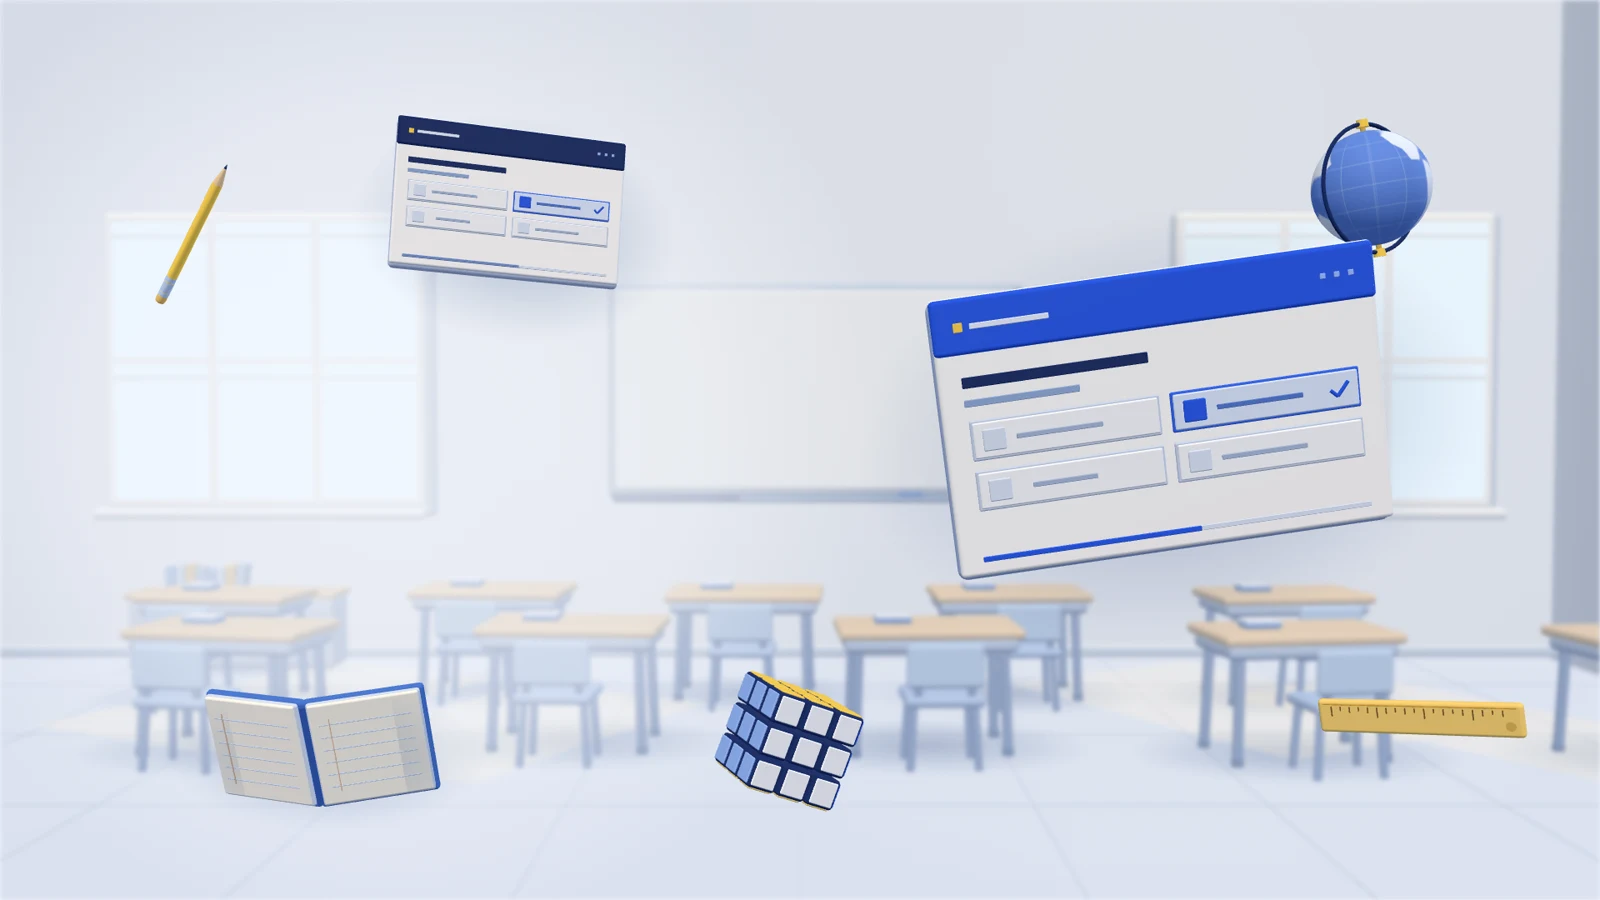
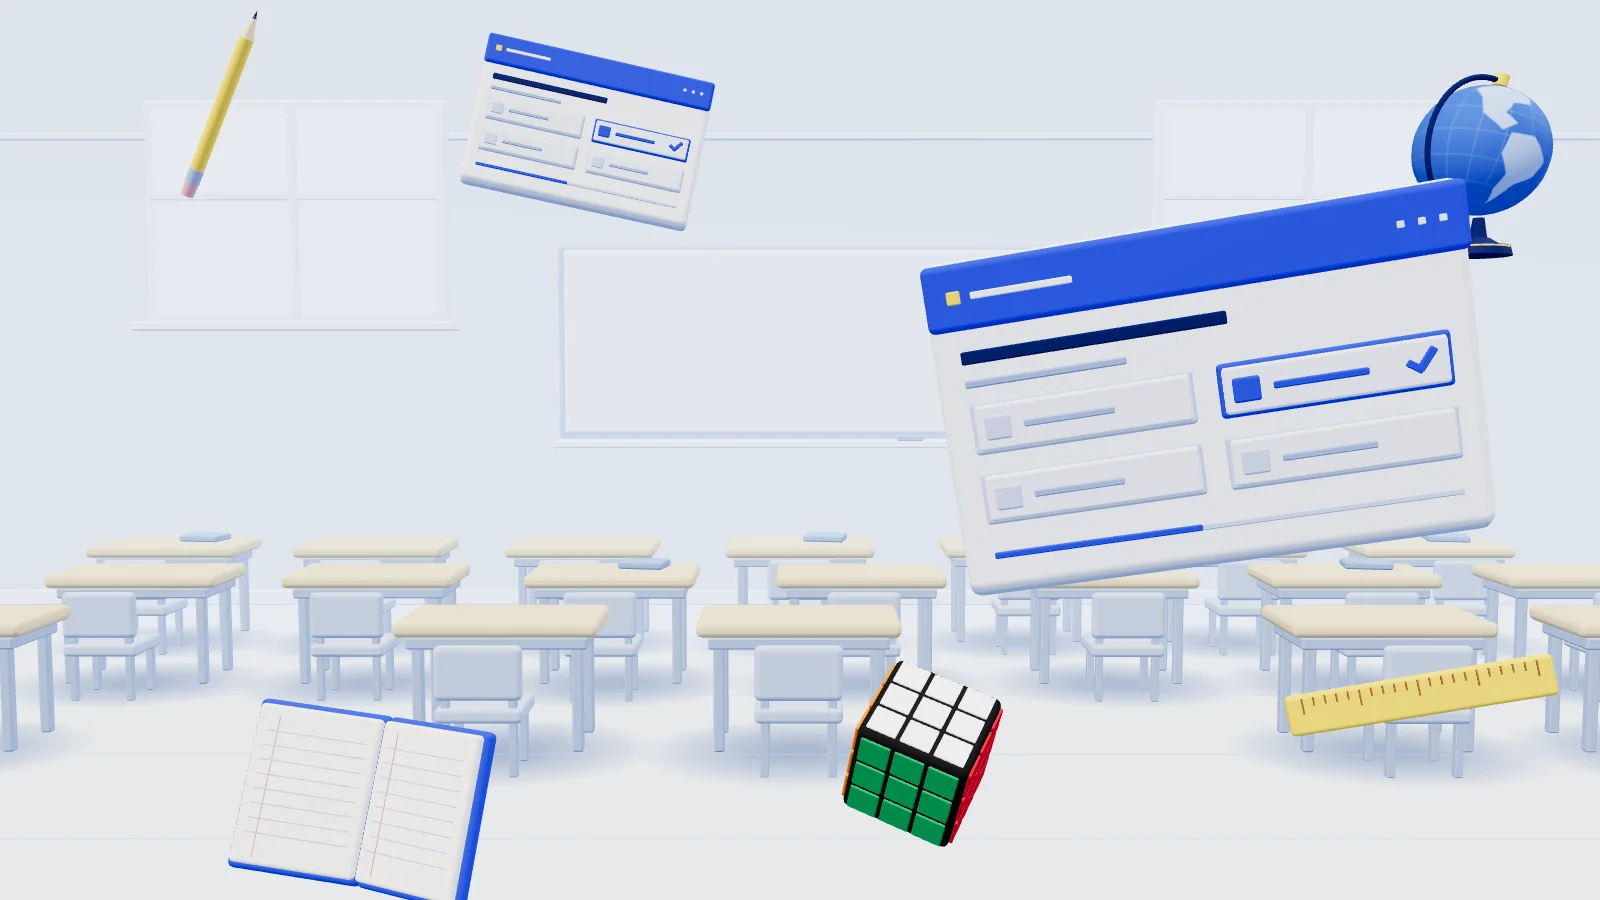
Refine classroom hero motion and models

diff --git a/src/components/hero-classroom-scene.ts b/src/components/hero-classroom-scene.ts
@@ -1,6 +1,6 @@
 import * as THREE from "three";
 import { addClassroom, disposeClassroom, makeClassroomObjects } from "./hero-classroom-models";
-import { pointerImpulse } from "./hero-pointer-motion";
+import { classroomPose, pointerImpulse } from "./hero-pointer-motion";
 
 type ClassroomOptions = {
   canvas: HTMLCanvasElement;
@@ -20,17 +20,18 @@ export function mountClassroom({ canvas, hero, onQuiz, onFailure }: ClassroomOpt
   const scene = new THREE.Scene();
   scene.fog = new THREE.Fog(0xeaf1fc, 12, 25);
   const camera = new THREE.PerspectiveCamera(35, 1, 0.1, 45);
-  const neutralCamera = camera.clone();
-  neutralCamera.position.copy(homeCamera);
-  neutralCamera.lookAt(cameraFocus);
-  neutralCamera.updateMatrixWorld();
+  camera.position.copy(homeCamera);
+  camera.lookAt(cameraFocus);
+  camera.updateMatrixWorld();
+  const roomView = camera.clone();
 
   const daylight = new THREE.DirectionalLight(0xfff5e3, 2.35);
   daylight.position.set(-4, 8, 5);
   const fill = new THREE.DirectionalLight(0xdce9ff, 1.15);
   fill.position.set(6, 4, -2);
   scene.add(new THREE.HemisphereLight(0xf5f9ff, 0xa1b5dd, 2.25), daylight, fill);
-  addClassroom(scene);
+  const room = addClassroom(scene);
+  room.matrixAutoUpdate = false;
 
   const models = makeClassroomObjects();
   const hitMaterial = new THREE.MeshBasicMaterial({ visible: false });
@@ -38,9 +39,9 @@ export function mountClassroom({ canvas, hero, onQuiz, onFailure }: ClassroomOpt
     { model: models.pencil, action: "move", x: 0.14, y: 0.14, z: 3.4, scale: 0.55, tilt: [0.10, -0.08, -0.52], drift: 0.12, phase: 1.2 },
     { model: models.extraQuiz, action: "quiz", x: 0.373, y: 0.15, z: 2.3, scale: 0.54, tilt: [-0.13, 0.23, -0.14], drift: 0.10, phase: 2.8 },
     { model: models.quiz, action: "quiz", x: 0.738, y: 0.46, z: 4.3, scale: 0.99, tilt: [0.04, -0.24, 0.10], drift: 0.20, phase: 0.2 },
-    { model: models.globe.model, action: "rotate", x: 0.89, y: 0.145, z: 3.3, scale: 0.83, tilt: [0.06, 0.12, -0.27], drift: 0.13, phase: 4.8 },
+    { model: models.globe.model, action: "rotate", x: 0.925, y: 0.15, z: 3.3, scale: 0.71, tilt: [0.06, 0.12, -0.27], drift: 0.10, phase: 4.8 },
     { model: models.notebook, action: "rotate", x: 0.238, y: 0.87, z: 3.9, scale: 0.73, tilt: [-0.24, -0.22, -0.08], drift: 0.17, phase: 3.8 },
-    { model: models.cube, action: "rotate", x: 0.57, y: 0.83, z: 3.0, scale: 0.76, tilt: [0.34, -0.37, -0.22], drift: 0.11, phase: 5.7 },
+    { model: models.cube, action: "rotate", x: 0.57, y: 0.83, z: 3.0, scale: 0.76, tilt: [0.55, -0.55, -0.18], drift: 0.11, phase: 5.7 },
     { model: models.ruler, action: "move", x: 0.89, y: 0.79, z: 3.4, scale: 0.78, tilt: [-0.13, -0.11, 0.21], drift: 0.13, phase: 1.9 },
   ] as const;
   const objects = placements.map((placement) => {
@@ -73,8 +74,9 @@ export function mountClassroom({ canvas, hero, onQuiz, onFailure }: ClassroomOpt
   let running = false;
   let lost = false;
   let lastFrame = 0;
+  let roomTime = 0;
 
-  function trackCamera(event: PointerEvent) {
+  function trackRoomPointer(event: PointerEvent) {
     if (!running || gesture || event.pointerType !== "mouse" || event.buttons !== 0) return;
     if (event.target instanceof Element && event.target.closest("button, a, dialog")) {
       lastPointer = undefined;
@@ -87,19 +89,22 @@ export function mountClassroom({ canvas, hero, onQuiz, onFailure }: ClassroomOpt
   }
 
   function draw(now: number) {
-    const delta = lastFrame && running ? Math.min(0.05, (now - lastFrame) / 1000) : 0;
+    const elapsed = lastFrame && running ? (now - lastFrame) / 1000 : 0;
+    const delta = Math.min(0.05, elapsed);
     lastFrame = now;
+    roomTime += elapsed;
     if (!lastPointer || now - lastPointer.at > 55) velocity.multiplyScalar(Math.exp(-delta * 8));
-    if (!gesture) {
-      orbit.x = THREE.MathUtils.damp(orbit.x, velocity.x, 12, delta);
-      orbit.y = THREE.MathUtils.damp(orbit.y, velocity.y, 12, delta);
-    }
-    camera.position.set(homeCamera.x + orbit.x * 0.70, homeCamera.y - orbit.y * 0.40, homeCamera.z);
-    aim.copy(cameraFocus);
-    aim.x += orbit.x * 0.16;
-    aim.y -= orbit.y * 0.10;
-    camera.lookAt(aim);
-    camera.rotateZ(-orbit.x * 0.023);
+    orbit.x = THREE.MathUtils.damp(orbit.x, velocity.x, 12, delta);
+    orbit.y = THREE.MathUtils.damp(orbit.y, velocity.y, 12, delta);
+    const pose = classroomPose(roomTime, orbit);
+    roomView.position.set(homeCamera.x + pose.x, homeCamera.y + pose.y, homeCamera.z + pose.z);
+    aim.set(cameraFocus.x + pose.lookX, cameraFocus.y + pose.lookY, cameraFocus.z);
+    roomView.lookAt(aim);
+    roomView.rotateZ(pose.roll);
+    roomView.updateMatrixWorld();
+    // Apply the moving viewpoint to the room alone. Foreground rendering and picking share the fixed camera.
+    room.matrix.multiplyMatrices(camera.matrixWorld, roomView.matrixWorldInverse);
+    room.matrixWorldNeedsUpdate = true;
 
     for (const object of objects) {
       if (gesture?.object !== object) {
@@ -128,12 +133,11 @@ export function mountClassroom({ canvas, hero, onQuiz, onFailure }: ClassroomOpt
     if (!width || !height) return;
     renderer.setPixelRatio(Math.min(devicePixelRatio, 1.5, Math.sqrt(2_300_000 / (width * height))));
     renderer.setSize(width, height, false);
-    camera.aspect = neutralCamera.aspect = width / height;
+    camera.aspect = width / height;
     camera.updateProjectionMatrix();
-    neutralCamera.updateProjectionMatrix();
     for (const object of objects) {
       cursor.set(object.x * 2 - 1, 1 - object.y * 2);
-      raycaster.setFromCamera(cursor, neutralCamera);
+      raycaster.setFromCamera(cursor, camera);
       plane.constant = -object.z;
       raycaster.ray.intersectPlane(plane, object.home);
     }
@@ -239,7 +243,7 @@ export function mountClassroom({ canvas, hero, onQuiz, onFailure }: ClassroomOpt
   resize();
   const observer = new ResizeObserver(resize);
   observer.observe(canvas);
-  hero.addEventListener("pointermove", trackCamera);
+  hero.addEventListener("pointermove", trackRoomPointer);
   hero.addEventListener("pointerleave", resetCursor);
   canvas.addEventListener("pointerdown", pointerDown);
   canvas.addEventListener("pointermove", pointerMove);
@@ -261,7 +265,7 @@ export function mountClassroom({ canvas, hero, onQuiz, onFailure }: ClassroomOpt
     dispose() {
       stop();
       observer.disconnect();
-      hero.removeEventListener("pointermove", trackCamera);
+      hero.removeEventListener("pointermove", trackRoomPointer);
       hero.removeEventListener("pointerleave", resetCursor);
       canvas.removeEventListener("pointerdown", pointerDown);
       canvas.removeEventListener("pointermove", pointerMove);

diff --git a/src/components/hero-classroom-models.ts b/src/components/hero-classroom-models.ts
@@ -132,6 +132,7 @@ export function addClassroom(scene: THREE.Scene) {
     });
     room.add(copies);
   }
+  return room;
 }
 
 function quizCard() {
@@ -207,8 +208,9 @@ function ruler() {
 
 function cube() {
   const model = new THREE.Group();
-  const frame = material(navy);
-  const palette = [0x5793ff, 0xffd453, 0xf0f5ff, 0xffa586, 0x6dbce0, 0x2259ed].map(material);
+  const frame = material(0x17171b);
+  // Right/left, up/down, front/back. White up and green front put red on the right.
+  const palette = [0xda1e29, 0xff7209, 0xffffff, 0xffd500, 0x009e55, 0x0059c8].map(material);
   box(model, frame, 1, 1, 1, 0, 0, 0, 0.065);
   const normals = [new THREE.Vector3(1, 0, 0), new THREE.Vector3(-1, 0, 0), new THREE.Vector3(0, 1, 0), new THREE.Vector3(0, -1, 0), new THREE.Vector3(0, 0, 1), new THREE.Vector3(0, 0, -1)];
   for (const [i, normal] of normals.entries()) {
@@ -251,12 +253,21 @@ function globe() {
   map.colorSpace = THREE.SRGBColorSpace;
   const sphere = new THREE.Mesh(new THREE.SphereGeometry(0.57, 32, 24), new THREE.MeshStandardMaterial({ map, roughness: 0.72 }));
   model.add(sphere);
-  const meridian = new THREE.Mesh(new THREE.TorusGeometry(0.66, 0.025, 12, 48), material(navy));
-  meridian.rotation.y = 0.42;
+  const stand = material(navy);
+  const meridian = new THREE.Mesh(new THREE.TorusGeometry(0.64, 0.025, 12, 40, Math.PI), stand);
+  meridian.rotation.z = Math.PI / 2;
+  meridian.rotation.y = 0.26;
   model.add(meridian);
   const pins = material(yellow);
   cylinder(model, pins, 0.065, 0.065, 0.10, 0.645);
   cylinder(model, pins, 0.065, 0.065, 0.10, -0.645);
+  const pedestal = new THREE.Group();
+  pedestal.rotation.z = 0.27;
+  cylinder(pedestal, stand, 0.048, 0.079, 0.205, -0.70);
+  cylinder(pedestal, stand, 0.10, 0.22, 0.082, -0.82);
+  cylinder(pedestal, stand, 0.265, 0.285, 0.085, -0.89, 40);
+  cylinder(pedestal, pins, 0.268, 0.271, 0.017, -0.86, 40);
+  model.add(pedestal);
   return { model, sphere };
 }
 

diff --git a/src/components/hero-pointer-motion.test.ts b/src/components/hero-pointer-motion.test.ts
@@ -1,5 +1,5 @@
 import { describe, expect, it } from "vitest";
-import { pointerImpulse } from "./hero-pointer-motion";
+import { classroomPose, pointerImpulse } from "./hero-pointer-motion";
 
 describe("chuyển động lớp học theo tốc độ chuột", () => {
   const start = { x: 0, y: 0, at: 100 };
@@ -16,5 +16,30 @@ describe("chuyển động lớp học theo tốc độ chuột", () => {
     const impulse = pointerImpulse(start, { x: 900, y: 900, at: 100 });
     expect(Math.hypot(impulse.x, impulse.y)).toBeCloseTo(1);
     expect(pointerImpulse(start, { x: 900, y: 0, at: 400 })).toEqual({ x: 0, y: 0 });
+  });
+});
+
+describe("chu kỳ lớp học", () => {
+  const restingPointer = { x: 0, y: 0 };
+
+  it("lặp lại vị trí và tốc độ sau 8 giây, kể cả khi chuột đứng yên", () => {
+    expect(classroomPose(2, restingPointer).x).not.toBe(0);
+    for (const time of [0, 0.01, 2, 4, 7.99]) {
+      const a = classroomPose(time, restingPointer);
+      const b = classroomPose(time + 8, restingPointer);
+      for (const axis of ["x", "y", "z", "lookX", "lookY", "roll"] as const) {
+        expect(b[axis]).toBeCloseTo(a[axis], 8);
+      }
+    }
+  });
+
+  it("giữ 20% biên độ rung chuột trên từng trục", () => {
+    const resting = classroomPose(2, restingPointer);
+    const moving = classroomPose(2, { x: 1, y: 1 });
+    expect(moving.x - resting.x).toBeCloseTo(0.14);
+    expect(moving.y - resting.y).toBeCloseTo(-0.08);
+    expect(moving.lookX - resting.lookX).toBeCloseTo(0.032);
+    expect(moving.lookY - resting.lookY).toBeCloseTo(-0.02);
+    expect(moving.roll - resting.roll).toBeCloseTo(-0.0046);
   });
 });

diff --git a/src/components/hero-pointer-motion.ts b/src/components/hero-pointer-motion.ts
@@ -11,3 +11,19 @@ export function pointerImpulse(previous: PointerSample, current: PointerSample) 
   const scale = 1 / Math.max(1, Math.hypot(x, y), maxPointerSpeed * Math.max(8, elapsed) / 1000);
   return { x: x * scale, y: y * scale };
 }
+
+export function classroomPose(seconds: number, pointer: { x: number; y: number }) {
+  const phase = seconds / 8 * Math.PI * 2;
+  const pan = Math.sin(phase);
+  const drift = 1 - Math.cos(phase);
+  const shake = 0.2;
+
+  return {
+    x: pan * 0.10 + pointer.x * 0.70 * shake,
+    y: -drift * 0.025 - pointer.y * 0.40 * shake,
+    z: -drift * 0.09,
+    lookX: pan * 0.018 + pointer.x * 0.16 * shake,
+    lookY: -pointer.y * 0.10 * shake,
+    roll: -pointer.x * 0.023 * shake,
+  };
+}

diff --git a/plans/20261112-smartteach-interaction-motion/implementation-notes.md b/plans/20261112-smartteach-interaction-motion/implementation-notes.md
@@ -34,3 +34,5 @@ JavaScript gzip tăng 3,11 KiB ở landing, 1,47 KiB ở trang đồng hồ và 
 Hero dùng hình học Three.js dựng theo bố cục video đã duyệt. Camera nhận vận tốc chuột theo px/giây, giới hạn ở 1.500 px/giây và hãm về vị trí ban đầu. Khi nắm vật thể, camera giữ góc nhìn để phép kéo và xoay ổn định. Bút chì và thước di chuyển theo chuột. Cuốn vở, quả địa cầu và Rubik xoay. Hai thẻ mở cùng một câu hỏi mẫu bằng dialog. Màn hình hẹp, thiết bị cảm ứng và tùy chọn giảm chuyển động dùng ảnh lớp học tĩnh cùng nút thử quiz. Three.js được nạp động khi hero đủ điều kiện hiển thị.
 
 Build production, ESLint các tệp sửa, Vitest 296/296 và hai spec Playwright landing 35/35 đã đạt. Playwright kiểm thao tác kéo, mở thẻ, trả lời và đóng quiz, chế độ tĩnh, mất WebGL, tạm dừng và các viewport 320/375/768/1280 trên Chromium.
+
+Lớp học hiện lia ngang và tiến lùi theo chu kỳ 8 giây, dựa trên nhịp nền Arena3. Phần phản hồi theo chuột còn 20% biên độ ban đầu. Cảnh lớp học nhận biến đổi riêng, còn vật thể nổi và phép chọn bằng chuột dùng camera cố định. Rubik dùng sáu màu chuẩn, quả địa cầu có chân đế và ảnh tĩnh được chụp lại từ cảnh mới.
